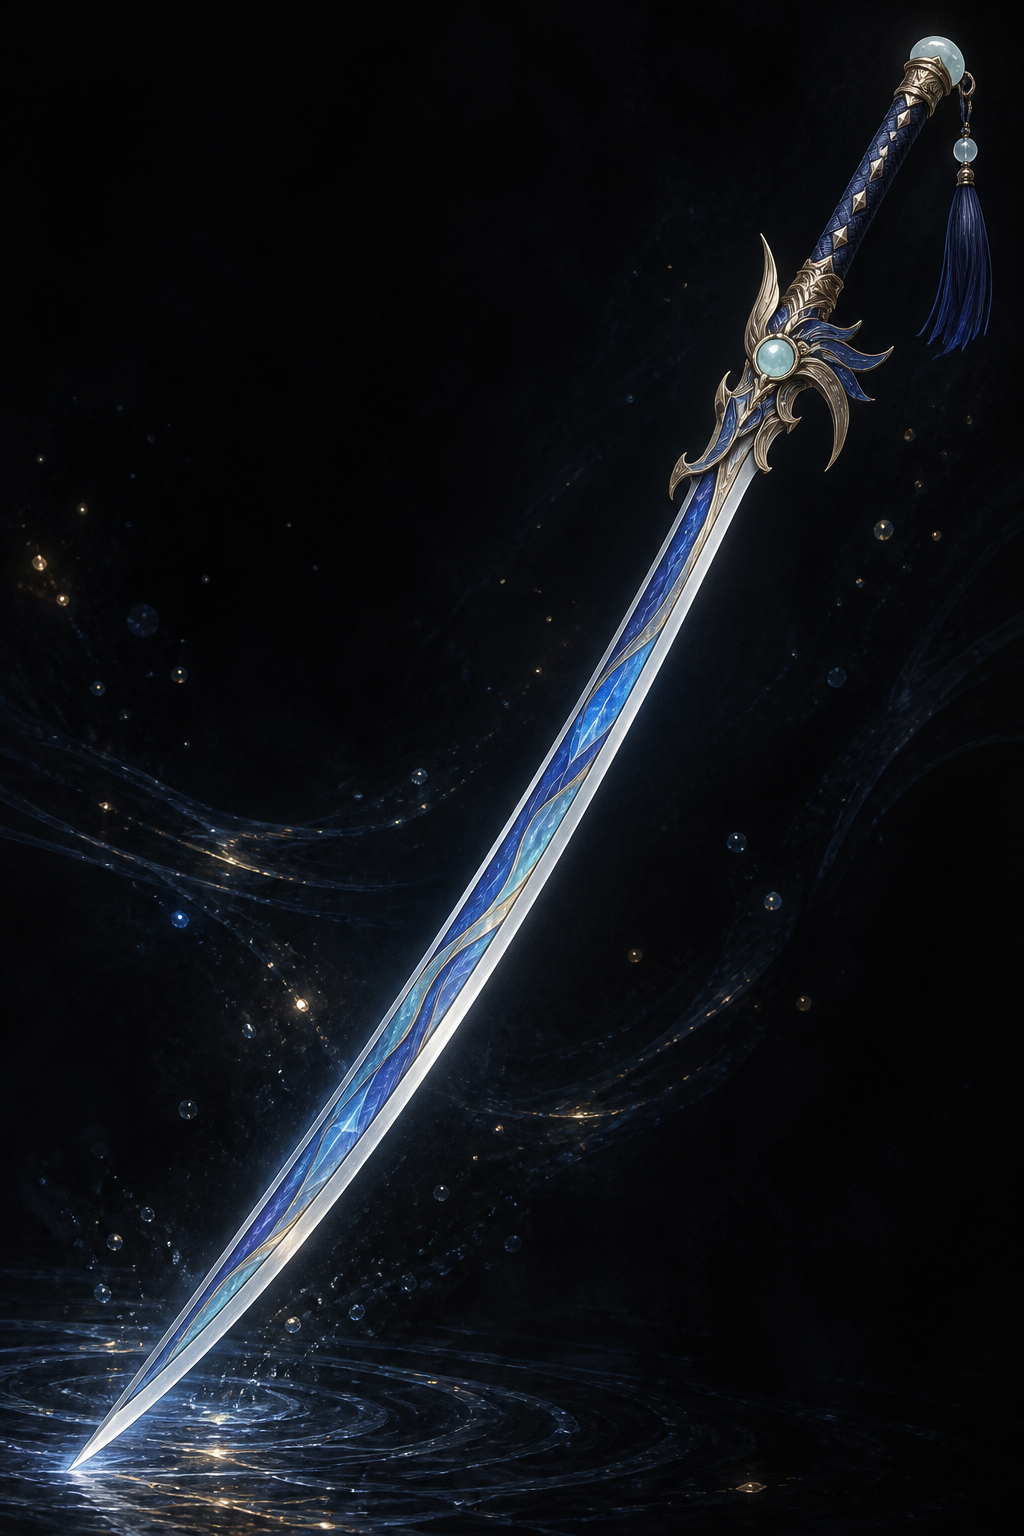
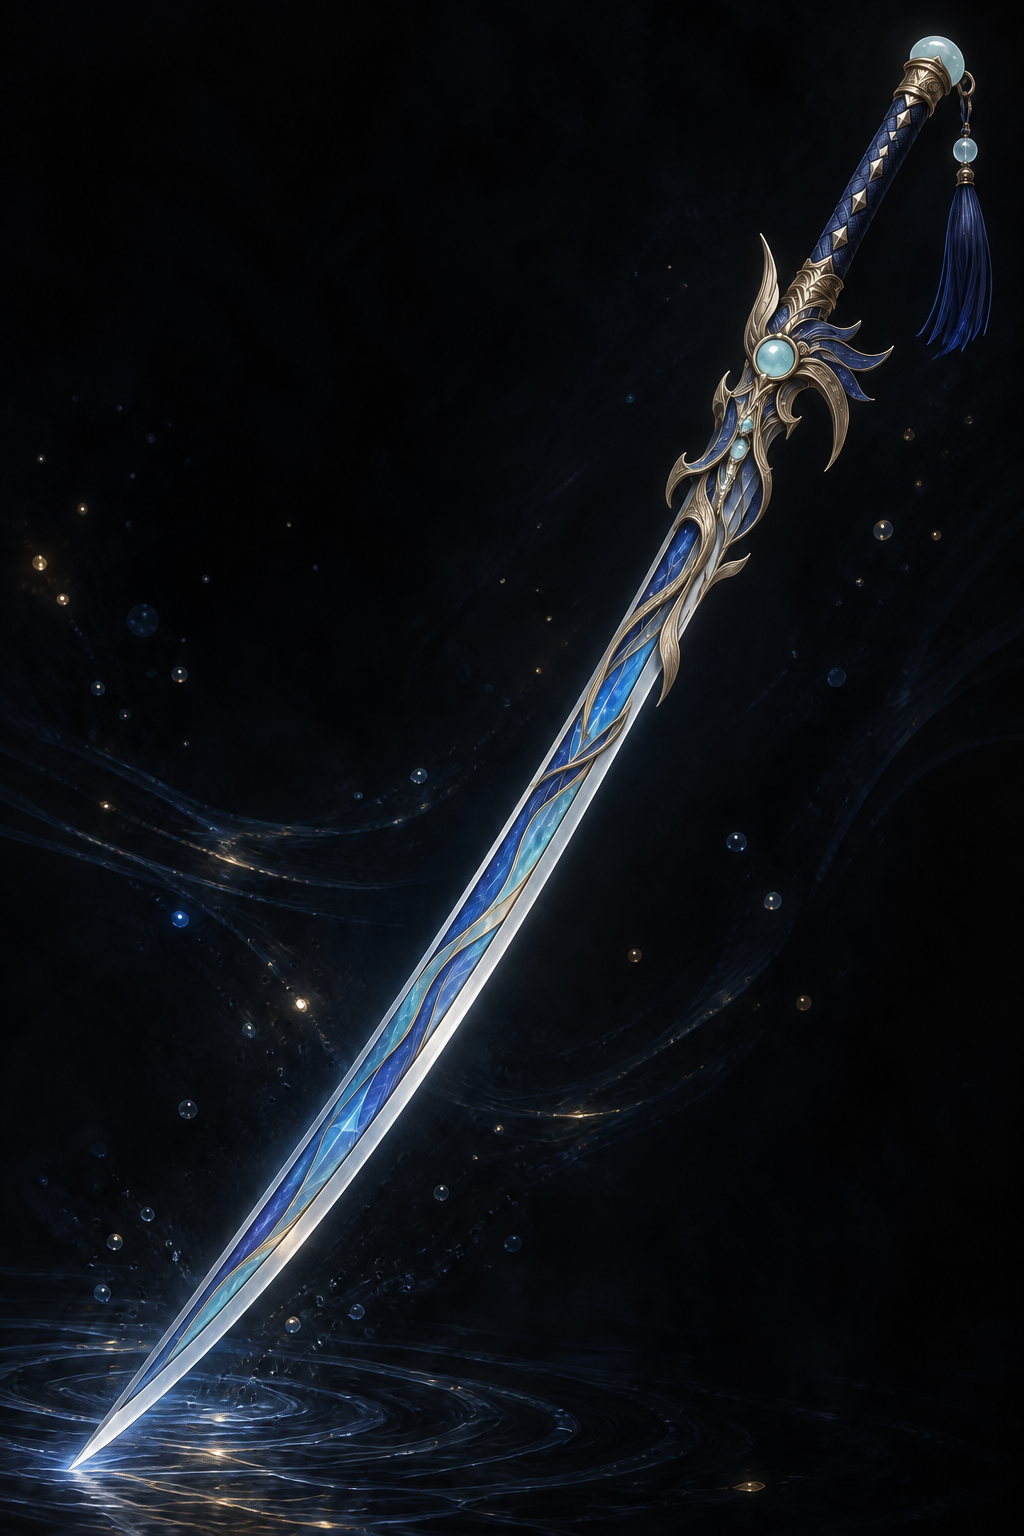
Add blade-root ornaments to Sungu and Gwangmyeonggeom

diff --git a/js/app.js b/js/app.js
@@ -723,7 +723,7 @@
   ];
   // GitHub Pages may cache files with the same path for a while. Keep the
   // artwork revision here so an art replacement is visible immediately.
-  const SWORD_ART_VERSION = '20260911-sunggu-gwangmyeong-prismatic-v9';
+  const SWORD_ART_VERSION = '20260911-sunggu-gwangmyeong-rootwork-v10';
 
   // A newly added sword can ship without artwork yet -- SWORD_ART_FILES[i]
   // stays an empty string until art is ready. Clearing the <img> src (not
